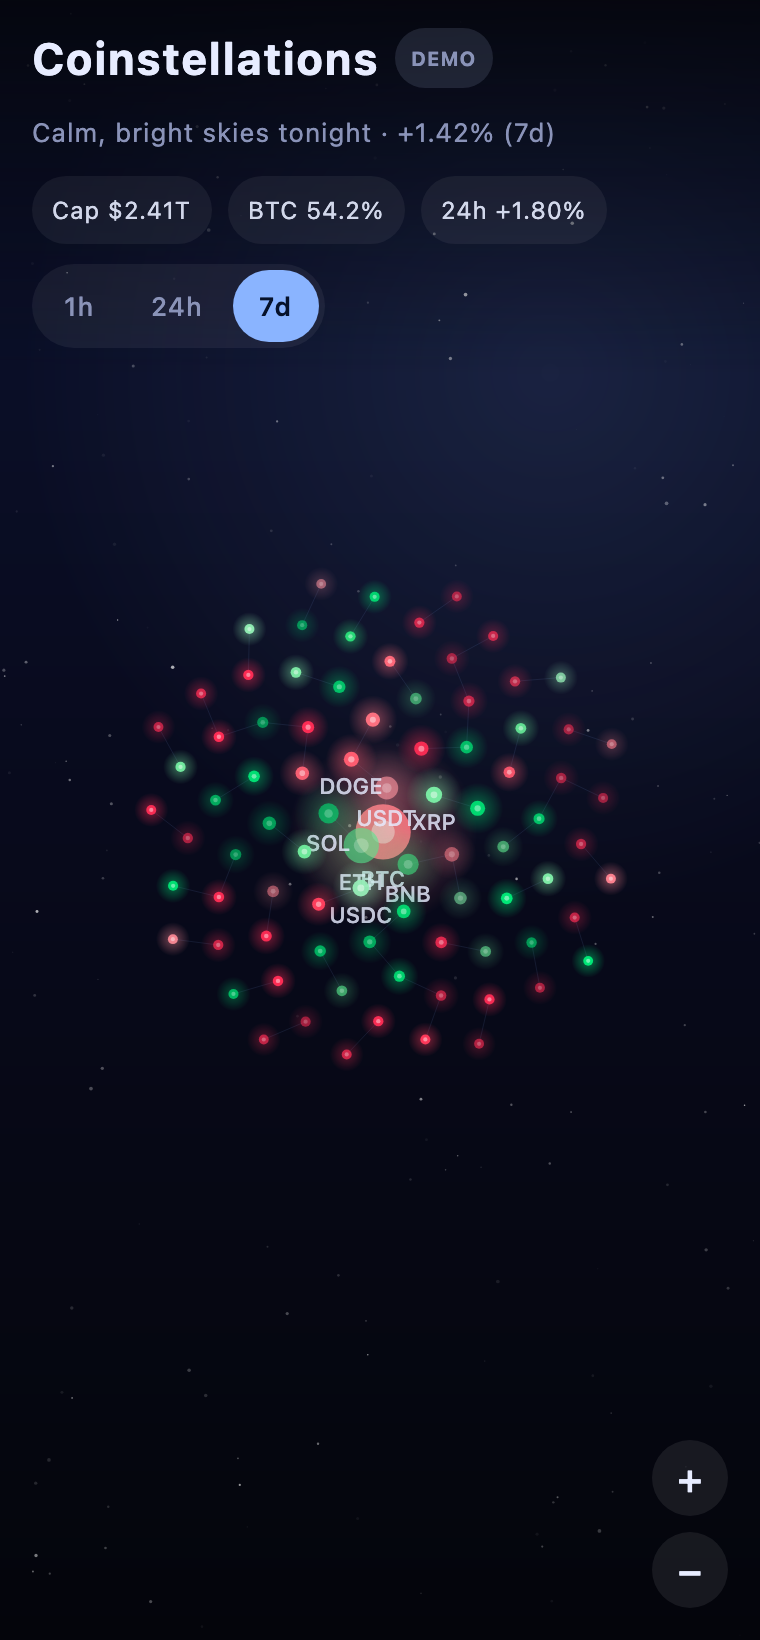
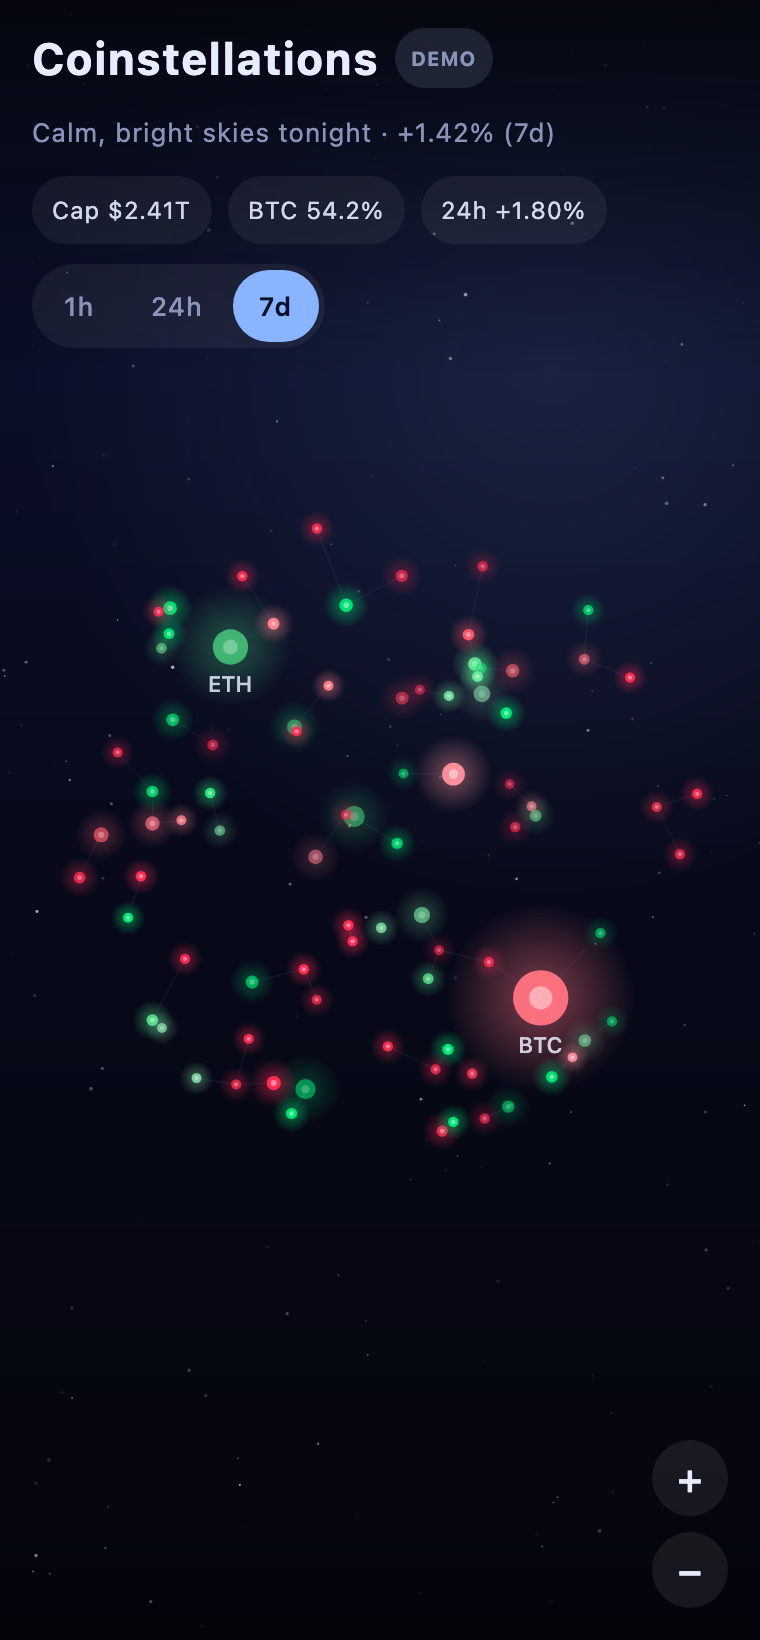
feat: reshuffle scatter each launch + reveal coin names on zoom
Per-session random seed (new layout every launch, stable within a session).
Labels now appear when a star is large enough on screen, so BTC/ETH show at the
default zoom and more names fade in as you zoom.

diff --git a/composeApp/src/commonMain/kotlin/io/github/vahan16/coinstellations/ui/SkyView.kt b/composeApp/src/commonMain/kotlin/io/github/vahan16/coinstellations/ui/SkyView.kt
@@ -66,7 +66,6 @@ private class Star(
     val twinkleSpeed: Float,
     val twinklePhase: Float,
     val depth: Float,        // 0 (far) .. 1 (near) — parallax weight
-    val major: Boolean,
 )
 
 private class BgStar(val nx: Float, val ny: Float, val r: Float, val baseAlpha: Float, val speed: Float, val phase: Float, val depth: Float)
@@ -104,8 +103,9 @@ fun SkyView(
     val sky = remember { Sky() }
 
     val bgStars = remember { buildBackgroundStars(count = 170) }
-    val stars = remember(coins, timeframe, sizePx) {
-        if (sizePx.minDimension <= 0f) emptyList() else buildStars(coins, timeframe, sizePx)
+    val sessionSeed = remember { Random.nextInt() } // fresh scatter on every launch
+    val stars = remember(coins, timeframe, sizePx, sessionSeed) {
+        if (sizePx.minDimension <= 0f) emptyList() else buildStars(coins, timeframe, sizePx, sessionSeed)
     }
     val edges = remember(stars) { buildEdges(stars) }
     val shooting = remember { mutableListOf<Shooting>() }
@@ -260,8 +260,15 @@ fun SkyView(
             drawCircle(star.color.copy(alpha = (0.85f * tw + 0.15f).coerceIn(0f, 1f)), rad, p)
             drawCircle(Color.White.copy(alpha = 0.45f * tw), rad * 0.42f, p)
 
-            if (star.major) {
-                val layout = textMeasurer.measure(star.coin.symbol, style = TextStyle(color = OnSurface.copy(alpha = 0.82f), fontSize = 11.sp, fontWeight = FontWeight.Medium))
+            // Reveal the coin's symbol once the star is big enough on screen — so
+            // zooming in fades in more names (BTC/ETH show even at the default zoom).
+            val labelThreshold = minDim * 0.016f
+            if (rad >= labelThreshold) {
+                val labelAlpha = (((rad / labelThreshold) - 1f) * 2.5f).coerceIn(0f, 1f) * 0.85f
+                val layout = textMeasurer.measure(
+                    star.coin.symbol,
+                    style = TextStyle(color = OnSurface.copy(alpha = labelAlpha), fontSize = 11.sp, fontWeight = FontWeight.Medium),
+                )
                 drawText(layout, topLeft = Offset(p.x - layout.size.width / 2f, p.y + rad + 3.dp.toPx()))
             }
         }
@@ -295,7 +302,7 @@ private fun ZoomButton(label: String, onClick: () -> Unit) {
 
 // --- layout & helpers (pure) ---
 
-private fun buildStars(coins: List<Coin>, tf: Timeframe, size: Size): List<Star> {
+private fun buildStars(coins: List<Coin>, tf: Timeframe, size: Size, seed: Int): List<Star> {
     if (coins.isEmpty()) return emptyList()
     val minDim = size.minDimension
     val maxMc = coins.maxOf { it.marketCap ?: 1.0 }.coerceAtLeast(1.0)
@@ -304,7 +311,7 @@ private fun buildStars(coins: List<Coin>, tf: Timeframe, size: Size): List<Star>
     return coins.mapIndexed { i, coin ->
         val mcNorm = sqrt(((coin.marketCap ?: 1.0) / maxMc).toFloat()).coerceIn(0f, 1f)
         val change = coin.changeFor(tf) ?: 0.0
-        val rnd = Random(coin.id.hashCode().toLong())
+        val rnd = Random((coin.id.hashCode().toLong() + i * 31L) xor (seed.toLong() shl 21))
         Star(
             coin = coin,
             ang = rnd.nextFloat() * 6.2832f,                  // random angle
@@ -314,7 +321,6 @@ private fun buildStars(coins: List<Coin>, tf: Timeframe, size: Size): List<Star>
             twinkleSpeed = 0.6f + min(3.0, abs(change) / 3.0).toFloat(),
             twinklePhase = rnd.nextFloat() * 6.2832f,
             depth = 0.3f + 0.7f * mcNorm,
-            major = i < 8,
         )
     }
 }

diff --git a/README.md b/README.md
@@ -46,9 +46,9 @@
 
 ## ✨ What it does
 
-- **A night sky of the market.** The top coins are laid out as a golden-angle galaxy — the biggest market caps sit near the centre as the brightest stars.
+- **A night sky of the market.** The top ~100 coins scatter across the sky as stars — the biggest market caps burn brightest, and the scatter reshuffles on every launch.
 - **Live, hand-drawn animation.** Stars twinkle, drift and link into constellations on a Compose `Canvas` driven by a `withFrameNanos` clock — no images, no chart library.
-- **Grab, spin & zoom.** Drag to rotate the whole galaxy; scroll, pinch, or tap `＋` / `－` to zoom — all eased smoothly (no jerky lock-step). Hover/move tilts it in 3D (near, large-cap stars parallax more) and flares the star under your pointer. Idle, it spins and drifts on its own.
+- **Grab, spin & zoom.** Drag to rotate the whole sky; scroll, pinch, or tap `＋` / `－` to zoom — all eased smoothly (no jerky lock-step). Zoom in and **more coin names fade in**. Hover/move tilts it in 3D (near, large-cap stars parallax more) and flares the star under your pointer. Idle, it spins and drifts on its own.
 - **Shooting stars for big movers.** The most volatile coins streak across the sky.
 - **Tap any star** for a detail sheet: price, 1h / 24h / 7d change, market cap, volume, supply, a price **sparkline** (24h → all-time) and project links.
 - **Timeframe toggle (1h / 24h / 7d)** instantly re-colours and re-sizes the whole sky, and the header shows the market "weather" (the average move).
@@ -68,7 +68,7 @@
 | 3D parallax depth | Market cap — big caps sit "nearer" and shift more as you tilt |
 | Colour (green → red) | Price change for the selected timeframe |
 | Twinkle speed | Volatility (absolute price change) |
-| Position | Golden-angle spiral by market-cap rank |
+| Position | Random scatter, reshuffled each launch |
 | Constellation lines | Nearest-neighbour links between stars |
 | Shooting stars | Largest absolute movers |
 